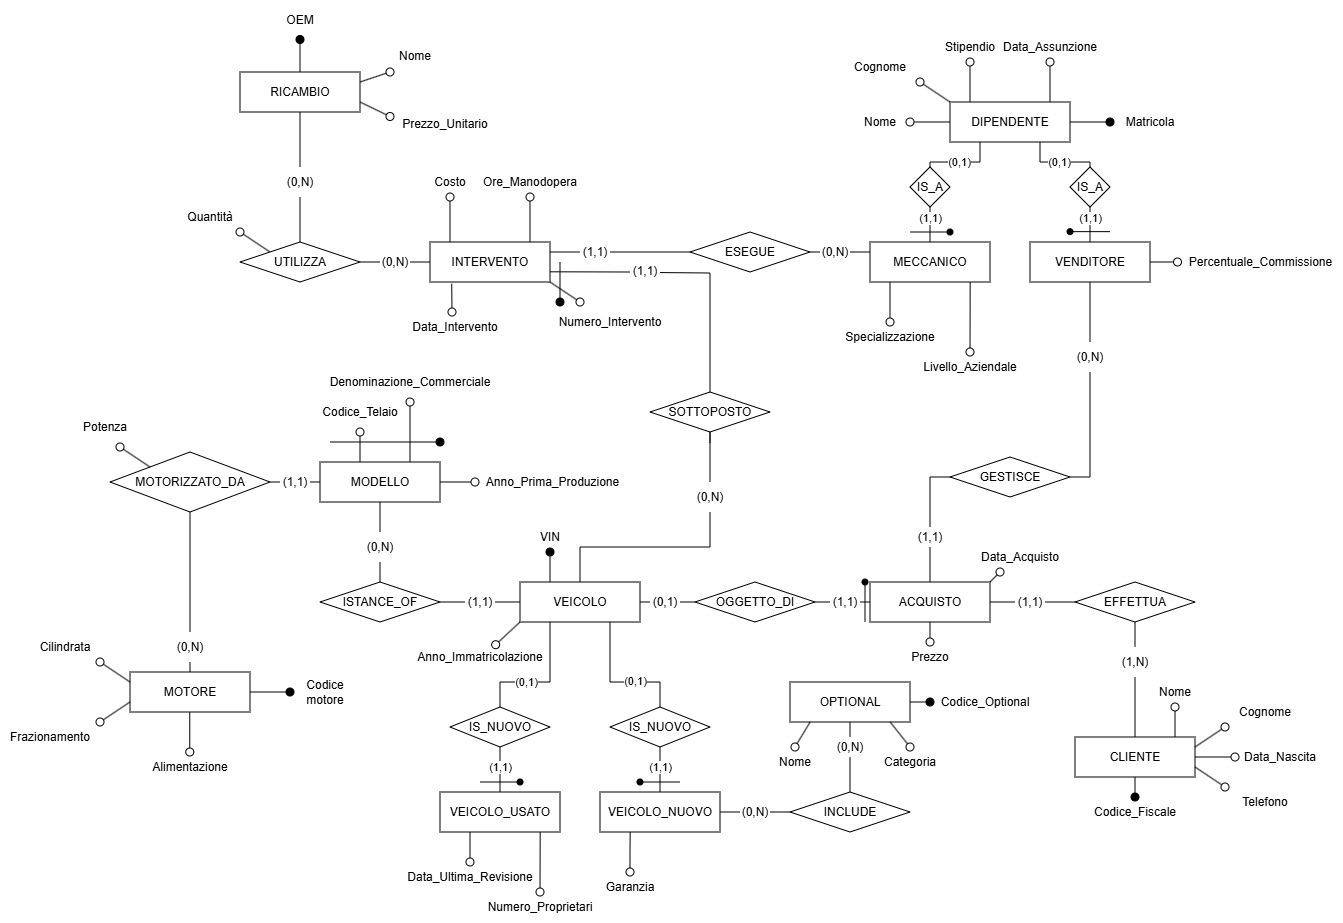
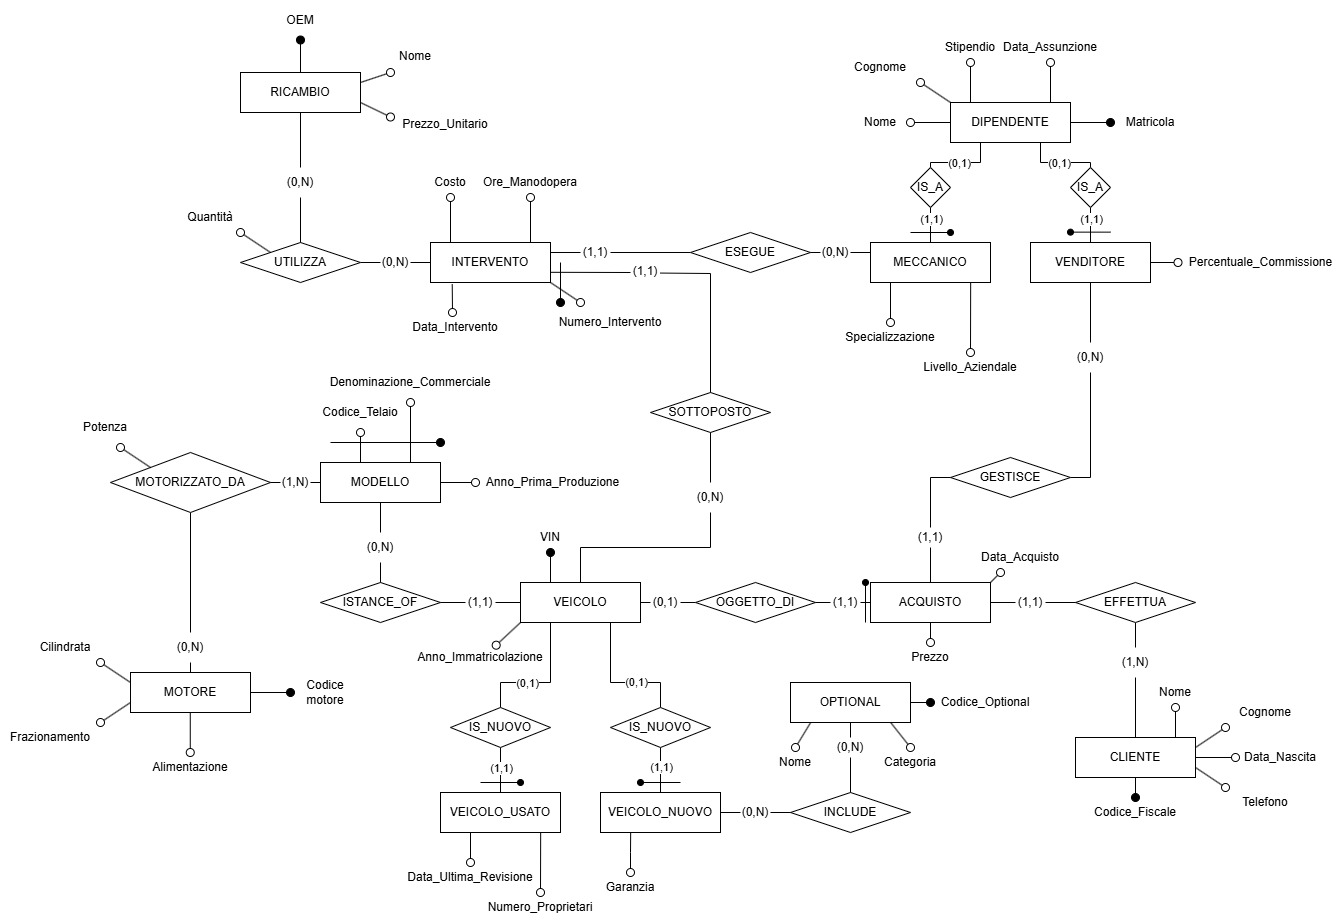
Sistemazione Motorizzato_Da

diff --git a/relazione/capitoli/progettazione_concettuale.tex b/relazione/capitoli/progettazione_concettuale.tex
@@ -14,7 +14,8 @@ La \textbf{Figura 1} mostra il diagramma Entità-Relazione (E-R) che riassume i 
 
 Esistono due tipologie di veicoli, nuovi e usati. Per i veicoli nuovi si vuole tenere traccia della garanzia e degli optional di cui dispongono, mentre per i veicoli usati vengono registrati il numero di proprietari precedenti e la data dell'ultima revisione.
 
-Ogni veicolo è istanza di un determinato modello, il quale è a sua volta motorizzato da uno specifico motore. Per ogni associazione tra modello e motore viene inoltre registrata la potenza.
+Ogni veicolo è istanza di un determinato modello, il quale è a sua volta motorizzato da un motore. \newline Un determinato motore può motorizzare diversi modelli, e viceversa. 
+Per ogni associazione tra modello e motore viene inoltre registrata la potenza.
 
 L'analisi dei requisiti pone particolare attenzione anche agli interventi effettuati sui veicoli. Ogni intervento si riferisce ad un solo veicolo ed è eseguito da un meccanico. Durante un intervento possono essere utilizzati uno o più ricambi, dei quali si vuole memorizzare anche la quantità impiegata.
 
@@ -35,10 +36,11 @@ Il presente schema E-R non permette di rappresentare direttamente i seguenti vin
     \item Se un veicolo \textbf{usato} viene venduto, allora la \texttt{Data\_Acquisto} deve essere successiva alla \texttt{Data\_Ultima\_Revisione}.
     \item Se un veicolo viene sottoposto ad un intervento, allora la \texttt{Data\_Intervento} deve essere successiva all' \texttt{Anno\_Immatricolazione}.
     \item Ogni valore numerico (Potenza, Cilindrata, Costo, Ore\_Manodopera, ecc..) presente nel sistema deve avere un valore non negativo. Fatta eccezione per codici specifici (es. VIN, OEM, ecc.).
-    \item Sebbene nel diagramma E‑R la relazione tra \textit{Venditore} e \textit{Acquisto} presenti cardinalità (0,N) dal lato del venditore (per consentire la presenza di venditori neoassunti che non hanno ancora concluso alcuna vendita), la partecipazione dell’entità \textit{Acquisto} alla relazione è totale: ogni acquisto deve essere necessariamente gestito da un venditore.
+    \item Nel diagramma E‑R la relazione tra \textit{Venditore} e \textit{Acquisto} presenta cardinalità (0,N) dal lato del venditore (per consentire la presenza di venditori neoassunti che non hanno ancora concluso alcuna vendita). Tuttavia la partecipazione dell'entità alla relazione \textit{Acquisto} è totale: ogni acquisto deve essere necessariamente gestito da un venditore.
 
+    \item Nel diagramma E‑R la relazione tra \textit{Modello} e \textit{Motore} presenta cardinalità (0,N) dal lato del motore (poiché un motore può esistere anche senza essere installato su alcun modello). Tuttavia la partecipazione dell'entità alla relazione \textit{Motorizzato\_Da} è totale: ogni modello deve essere necessariamente equipaggiato da un motore.
 
-\end{itemize}
+\end{itemize} 
 
 \vspace{1cm}
 

diff --git a/relazione/capitoli/progettazione_logica.tex b/relazione/capitoli/progettazione_logica.tex
@@ -237,7 +237,7 @@ Si decide pertanto di eliminare l'attributo ridondante Totale\_Vendite dall'enti
 \vspace{0.5cm}
 \subsection{Eliminazione delle Generalizzazioni}
 
-Come evidenziato nello schema E-R in \textbf{Figura 1} le generalizzazioni presenti devono essere eliminate con l'obiettivo di semplificare la successiva implementazione del modello relazionale.
+Come evidenziato nello schema E-R in \textbf{Figura 1} le generalizzazioni presenti devono essere eliminiate con l'obiettivo di semplificare la successiva implementazione del modello relazionale.
 A questo scopo si sviluppa lo schema ristrutturato in \textbf{Figura 2}, dove si aggiunge anche il volere di mantenere sia la distinzione logica dei dati e sia di evitare valori nulli.
 Di seguito vengono quindi elencate le trasformazioni duelle due generalizzazioni presenti:
 
@@ -298,10 +298,7 @@ Di seguito si illustra lo schema logico relazionale ottenuto da tale ristruttura
     \end{itemize}
     \item \textbf{OPTIONAL}( \underline{Codice\_Optional}, Categoria, Nome )
     \item \textbf{MOTORE}(\underline{Codice\_Motore}, Cilindrata, Frazionamento, Alimentazione )
-    \item \textbf{MODELLO}( \underline{Denominazione\_Commerciale, Codice\_Telaio}, Anno\_Prima\_Produzione, Motore, Potenza\_Motore)
-    \begin{itemize}
-        \item MODELLO.Motore $\rightarrow$ MOTORE.Codice\_Motore
-    \end{itemize}
+    \item \textbf{MODELLO}( \underline{Denominazione\_Commerciale, Codice\_Telaio}, Anno\_Prima\_Produzione)
     \item \textbf{RICAMBIO}( \underline{OEM}, Nome, Prezzo\_Unitario )
     \item \textbf{INTERVENTO}( \underline{Veicolo, Numero\_Intervento}, Data\_Intervento, Costo, Ore\_Manodopera, Meccanico )
     \begin{itemize}
@@ -339,6 +336,11 @@ Di seguito si elencano le tabelle ottenute dalle relazioni molti a molti:
         \item UTILIZZA.Ricambio $\rightarrow$ RICAMBIO.OEM
         \item UTILIZZA.Numero\_Intervento $\rightarrow$ INTERVENTO.Numero\_Intervento
         \item UTILIZZA.Veicolo $\rightarrow$ INTERVENTO.Veicolo
+    \end{itemize}
+    \item \textbf{MOTORIZZATO\_DA} ( \underline{Codice\_Telaio, Denominazione\_Commerciale, Motore}, Potenza )
+    \begin{itemize}
+        \item MOTORIZZATO\_DA.(Codice\_Telaio, Denominazione\_Commerciale) $\rightarrow$ MODELLO.(Codice\_Telaio, Denominazione\_Commerciale)
+        \item MOTORIZZATO\_DA.Motore $\rightarrow$ MOTORE.Codice\_Motore
     \end{itemize}
 \end{itemize}
 

diff --git a/relazione/capitoli/accesso_da_software.tex b/relazione/capitoli/accesso_da_software.tex
@@ -6,7 +6,7 @@ da riga di comando (CLI), eseguibile compilando il file \texttt{client.c}, scrit
 Per aumentare la portabilità e l'indipendenza dall'ambiente, al lancio l'applicativo
 richiede l'immissione delle credenziali di accesso al database PostgreSQL.
 Una volta verificata e stabilita la connessione con il server, il programma permette
-l'interrogazione del database, scegliendo tra le query proposte:
+l'interrogazione del database, scegliendo tra le seguenti query:
 \begin{enumerate}
     \item Query 1
     \item Query 2
@@ -15,4 +15,4 @@ l'interrogazione del database, scegliendo tra le query proposte:
     \item Query 5
 \end{enumerate}
 
-La quinta query è parametrica: infatti, permette \textbf{inserire cosa fa}.
+La quinta quuery è parametrica: infatti, permette \textbf{inserire cosa fa}.
